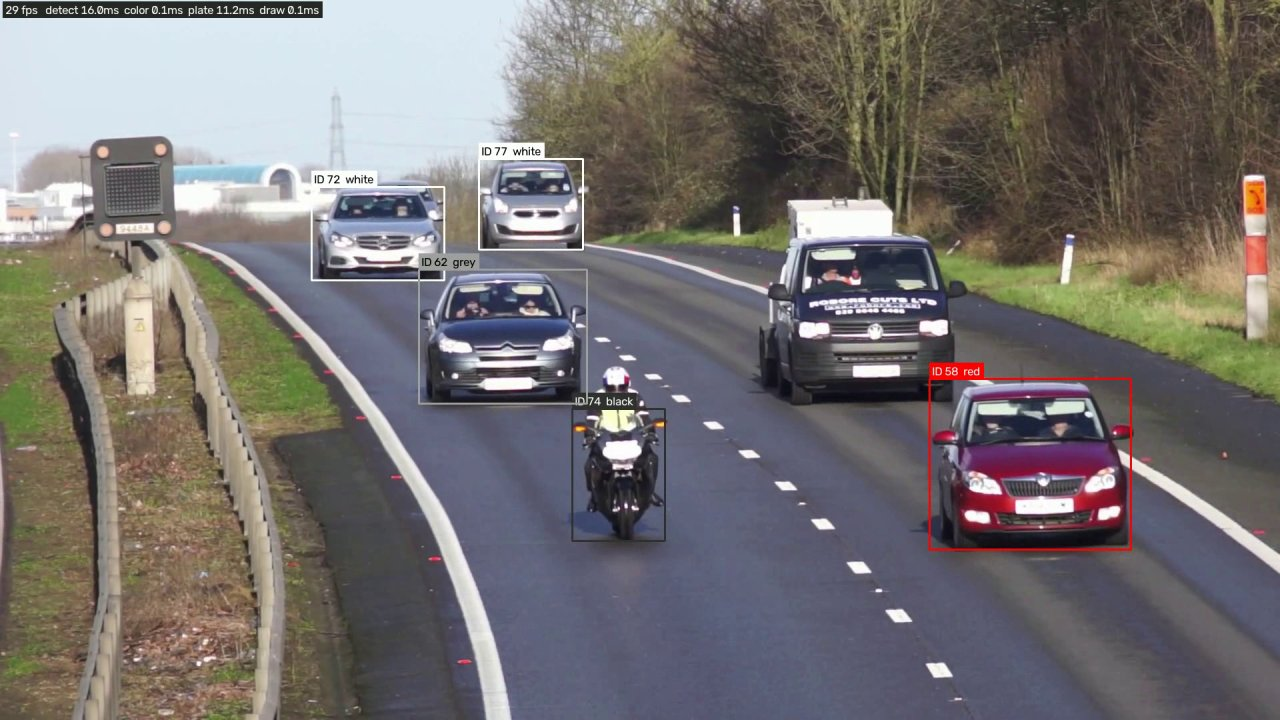
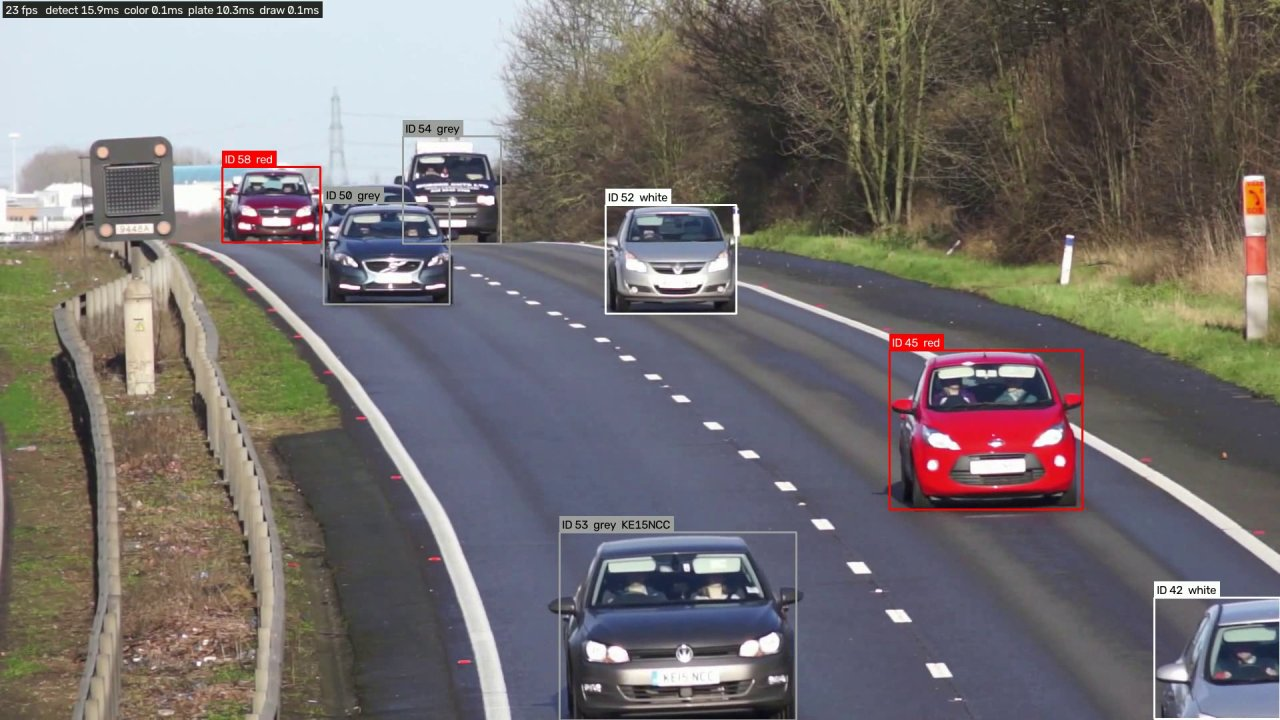
Use a dense traffic screenshot with every vehicle detected

Changed region(s): [[0.1562, 0.1528, 0.9062, 1.0], [0.875, 0.7944, 1.0, 1.0]]

diff --git a/README.md b/README.md
@@ -6,10 +6,11 @@ a box in that colour with the plate next to it.
 
 ![Dashcam clip: both plates read, boxes coloured by vehicle](docs/dashcam.jpg)
 
-![Dense traffic clip](docs/dense_traffic.jpg)
+![Dense traffic clip: eight vehicles tracked, plate KE15NCC read](docs/dense_traffic.jpg)
 
-The second frame also shows the current limits: the two silver cars are labelled `white` and
-the dark van on the right is not detected. See [Limitations](#limitations).
+The second frame also shows the weakest part: the silver cars (IDs 52 and 42) are labelled
+`white`.
+See [Limitations](#limitations).
 
 ## Task coverage
 
@@ -419,7 +420,9 @@ What I would do for a real deployment, in this order:
   the other). The next step would be a small classifier (for example MobileNetV3) fine-tuned on a
   public vehicle colour dataset on the vehicle crops, with the 30 labelled vehicles as the test
   set. It runs a few times per vehicle, so it would barely affect speed.
-- **Detection** uses COCO weights. The dark tow van in the dense clip is missed. Fine-tuning on
+- **Detection** uses COCO weights. A dark tow van in the dense clip is missed for a while: it is
+  seen as a truck at 0.49 confidence, just under the 0.5 threshold. A roadside sign is sometimes
+  boxed as a vehicle; it never gets a plate, because it does not move. Fine-tuning on
   traffic-camera data or a larger model would help.
 - **IDs** come from ByteTrack without re-identification: a vehicle hidden for more than about a
   second, or leaving and coming back, gets a new ID.
